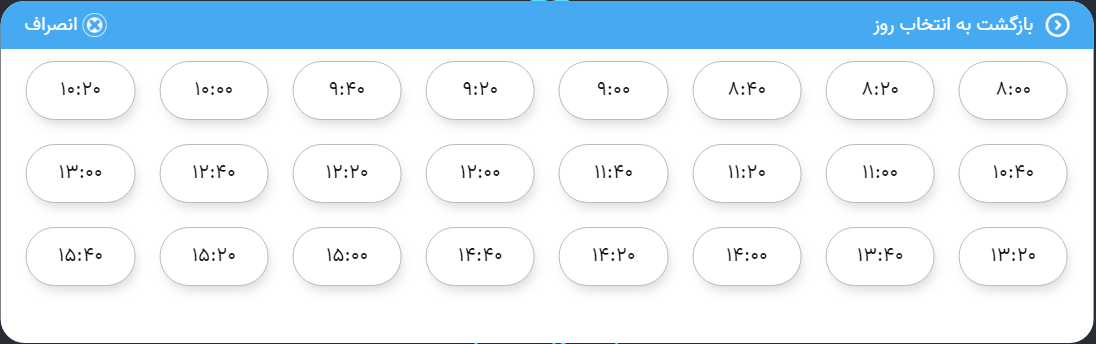
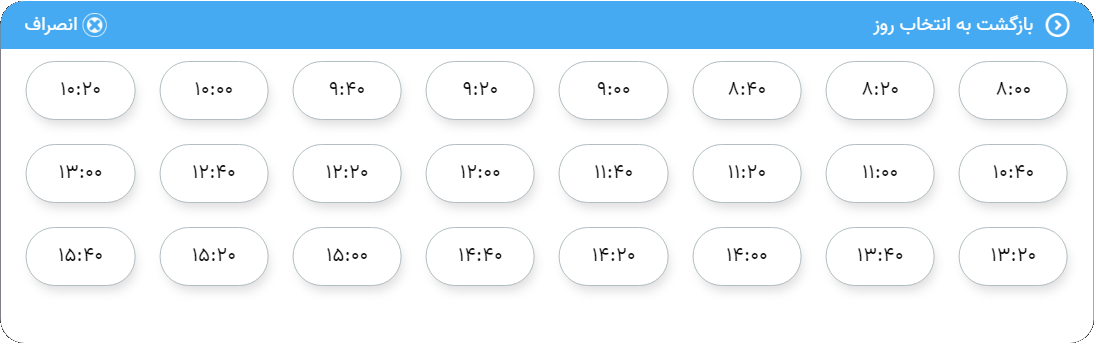
screen shots and body style

Changed region(s): [[0.0, 0.0, 1.0, 1.0], [0.0, 0.0, 0.031, 0.0291]]

diff --git a/src/styles.module.css b/src/styles.module.css
@@ -1,6 +1,7 @@
 @import "fonts/font-face-FD.css";
 body {
   font-family: Vazir FD, "Vazir FD", serif !important;
+  color:black;
 }
 .btn {
   border-radius: 2rem;
